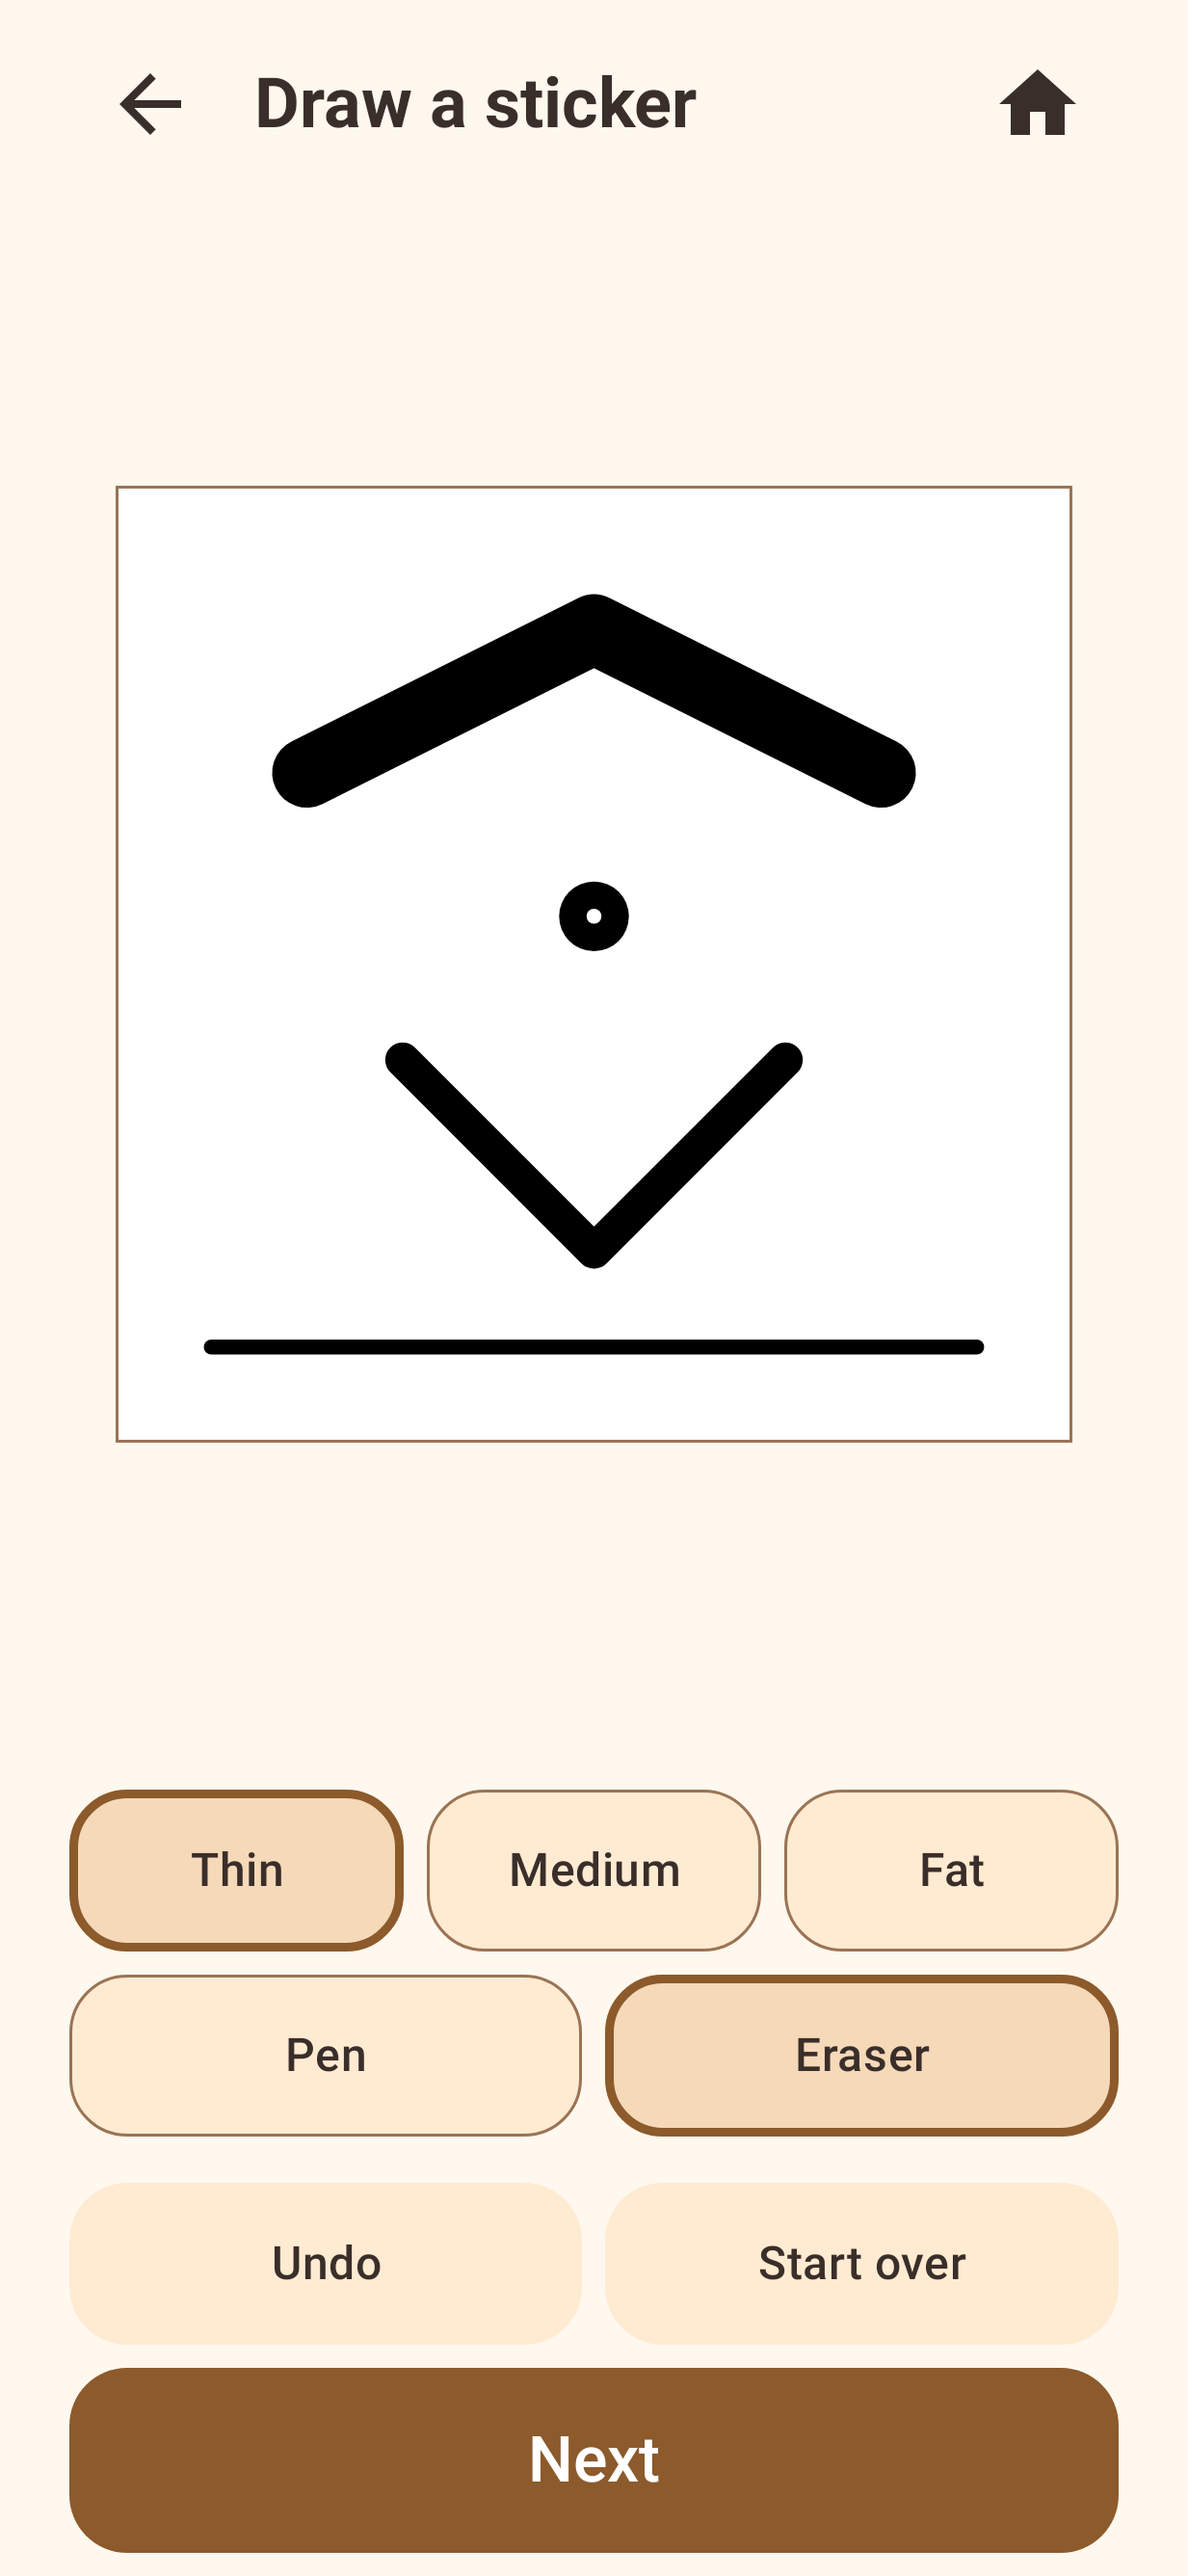
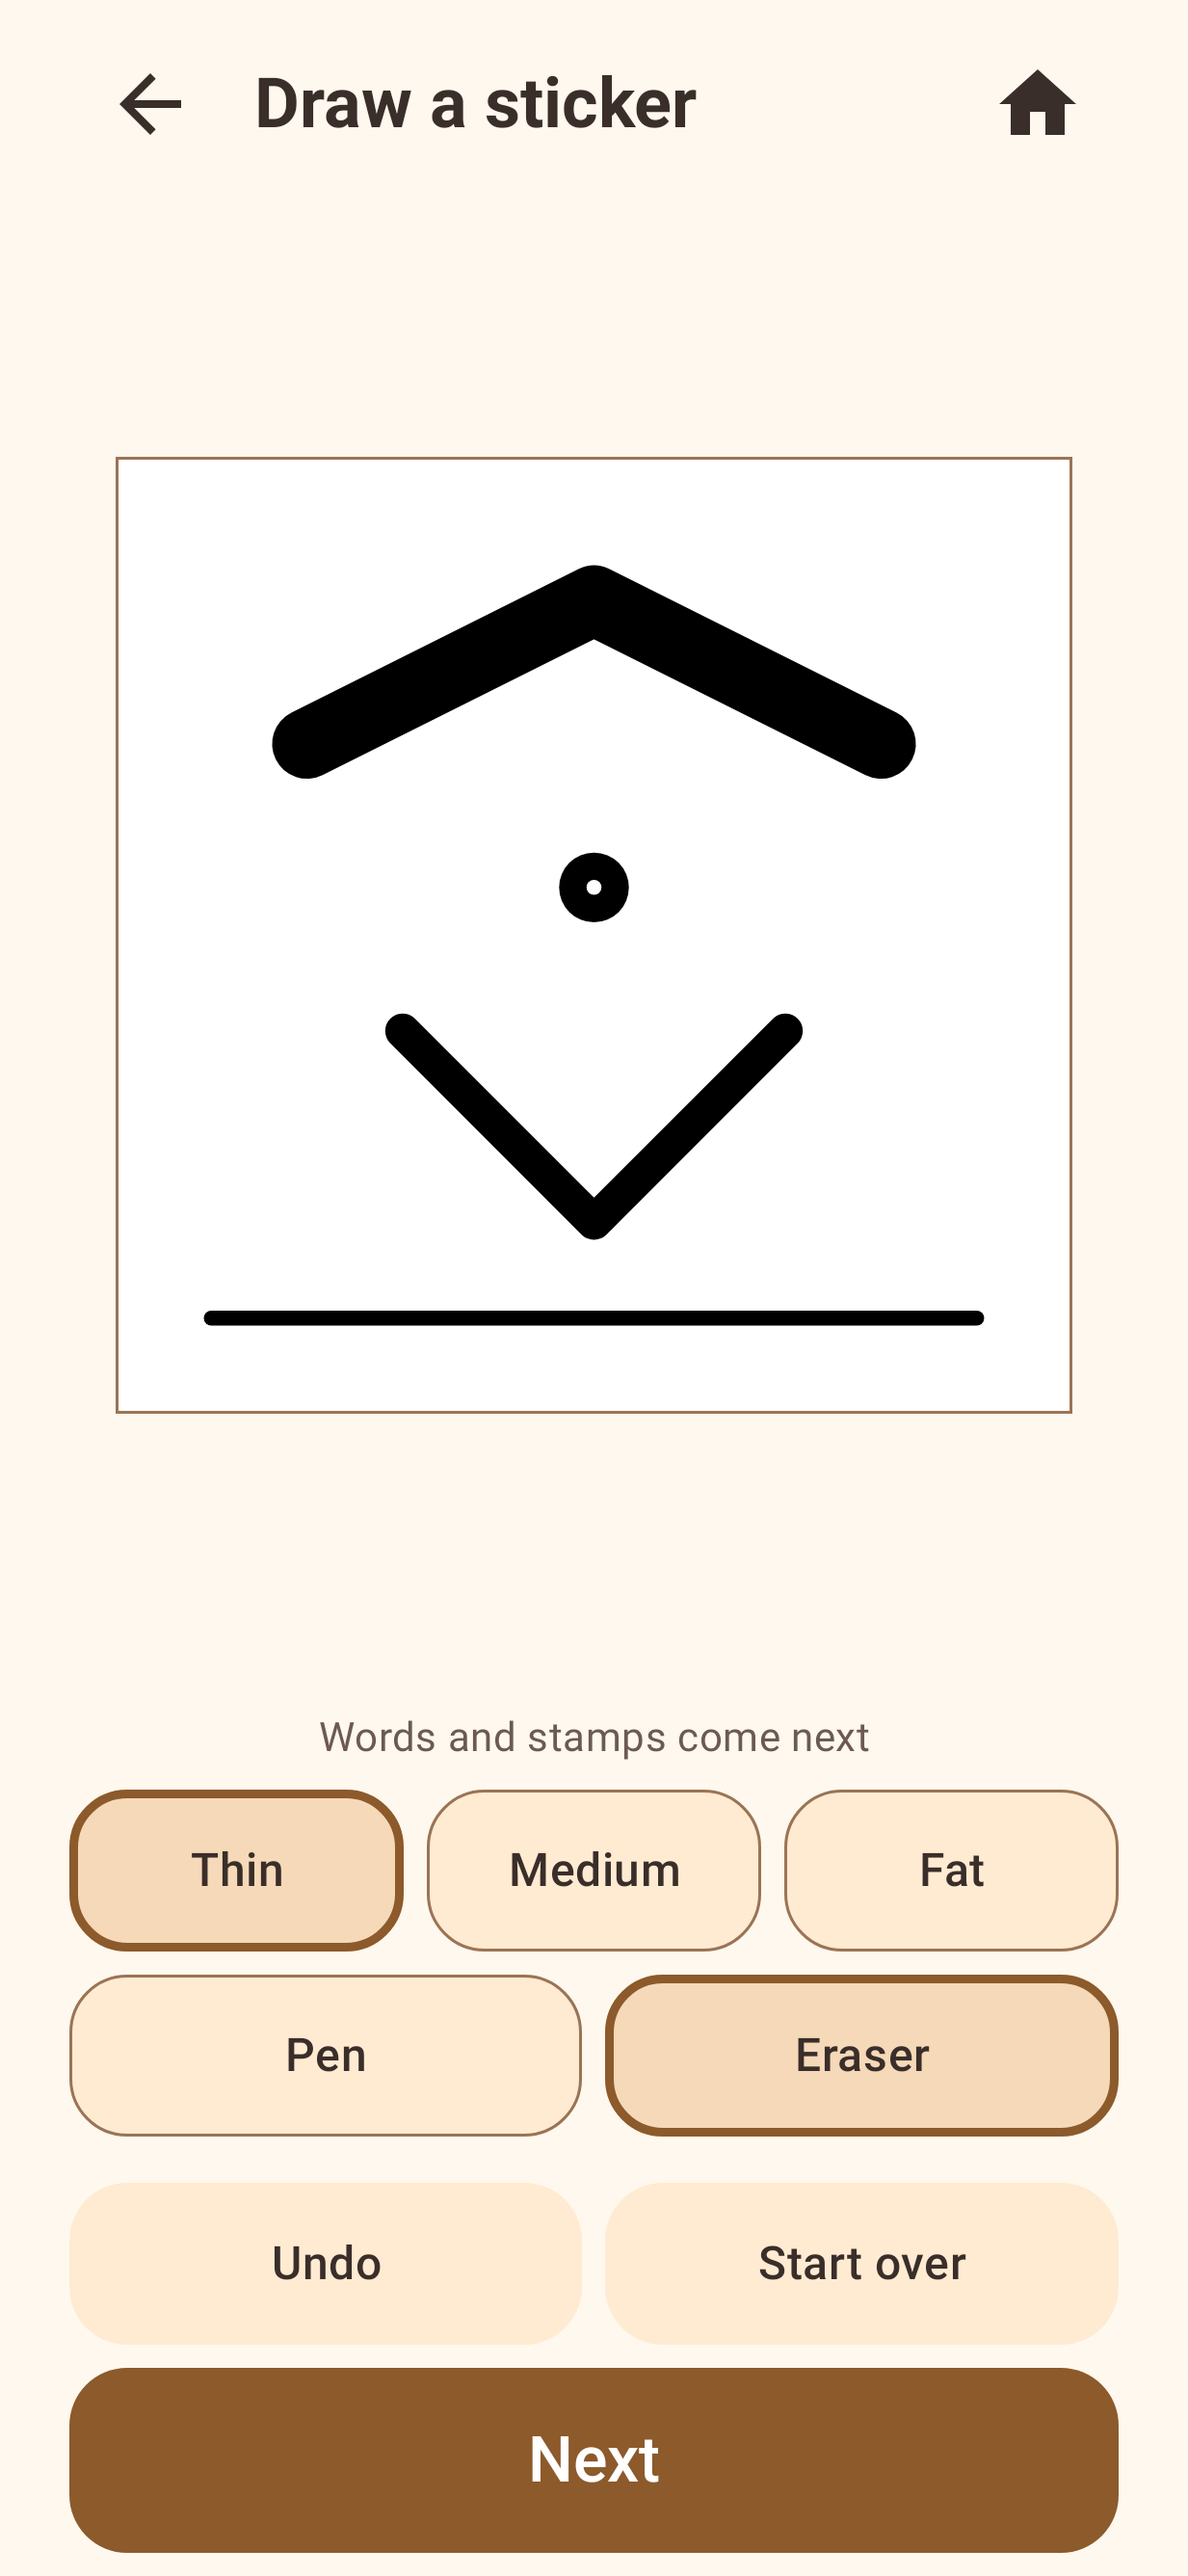
feat(draw): blank sheets go to the editor; drawings skip the crop step
Hardware-run feedback 2026-09-22: a kid may want only words and stamps. Next is now always
enabled on the draw sheet (hint: "Draw something — or tap Next to use just words and stamps"),
and the editor opens a drawing straight on "Ready to print?" in Drawing style, since it is
already one sticker; Back from there closes instead of going to a crop step that never showed.
Tests for both; draw goldens re-recorded.

diff --git a/app/src/main/kotlin/com/example/pugprint/ui/editor/EditorViewModel.kt b/app/src/main/kotlin/com/example/pugprint/ui/editor/EditorViewModel.kt
@@ -7,6 +7,7 @@ import com.example.pugprint.imaging.CaptionPlacement
 import com.example.pugprint.imaging.CropShape
 import com.example.pugprint.imaging.CropWindow
 import com.example.pugprint.imaging.DitherMode
+import com.example.pugprint.imaging.DrawingHandoff
 import com.example.pugprint.imaging.GrayImage
 import com.example.pugprint.imaging.ImagingDispatcher
 import com.example.pugprint.imaging.MonoBitmap
@@ -140,22 +141,29 @@ class EditorViewModel
                 )
             }.stateIn(viewModelScope, SharingStarted.Eagerly, EditorUiState())
 
-        /** Loads the picture at [uri]; a repeat call for the same picture is a no-op (configuration change). */
+        /**
+         * Loads the picture at [uri]; a repeat call for the same picture is a no-op (configuration
+         * change). A drawing ([DrawingHandoff.URI]) is already one sticker, so it skips "Make it fit"
+         * and opens on the preview in Drawing style.
+         */
         fun open(uri: String) {
             if (openedUri == uri) return
             openedUri = uri
             renderJob?.cancel()
             edit.value = EditState()
+            val isDrawing = uri == DrawingHandoff.URI
             viewModelScope.launch {
                 try {
                     val image = withContext(dispatcher) { photos.load(uri) }
                     edit.update {
                         it.copy(
-                            step = EditorStep.Crop,
+                            step = if (isDrawing) EditorStep.Preview else EditorStep.Crop,
                             image = image,
                             window = CropWindow(image.width, image.height),
+                            mode = if (isDrawing) DitherMode.DRAWING else it.mode,
                         )
                     }
+                    if (isDrawing) render()
                 } catch (_: PhotoLoadException) {
                     edit.update { it.copy(step = EditorStep.Failed) }
                 }

diff --git a/app/src/main/kotlin/com/example/pugprint/ui/draw/DrawScreen.kt b/app/src/main/kotlin/com/example/pugprint/ui/draw/DrawScreen.kt
@@ -15,6 +15,7 @@ import androidx.compose.foundation.layout.fillMaxWidth
 import androidx.compose.foundation.layout.height
 import androidx.compose.foundation.layout.padding
 import androidx.compose.material3.MaterialTheme
+import androidx.compose.material3.Text
 import androidx.compose.runtime.Composable
 import androidx.compose.ui.Alignment
 import androidx.compose.ui.Modifier
@@ -28,6 +29,7 @@ import androidx.compose.ui.input.pointer.pointerInput
 import androidx.compose.ui.res.stringResource
 import androidx.compose.ui.semantics.contentDescription
 import androidx.compose.ui.semantics.semantics
+import androidx.compose.ui.text.style.TextAlign
 import androidx.compose.ui.unit.dp
 import com.example.pugprint.R
 import com.example.pugprint.design.components.BigButton
@@ -54,7 +56,14 @@ fun DrawScreen(
         onHome = actions.onHome,
     ) {
         DrawingCanvas(state, actions)
-        Spacer(Modifier.height(PugSpacing.medium))
+        Spacer(Modifier.height(PugSpacing.small))
+        Text(
+            text = stringResource(if (state.drawing.isEmpty) R.string.draw_hint_empty else R.string.draw_hint),
+            style = MaterialTheme.typography.bodyMedium,
+            color = MaterialTheme.colorScheme.onSurfaceVariant,
+            textAlign = TextAlign.Center,
+        )
+        Spacer(Modifier.height(PugSpacing.small))
         ChoiceRow(
             options = BrushSize.entries,
             selected = state.brush,

diff --git a/app/src/test/kotlin/com/example/pugprint/ui/editor/EditorViewModelTest.kt b/app/src/test/kotlin/com/example/pugprint/ui/editor/EditorViewModelTest.kt
@@ -5,6 +5,7 @@ import com.example.pugprint.imaging.CaptionPlacement
 import com.example.pugprint.imaging.CropRect
 import com.example.pugprint.imaging.CropShape
 import com.example.pugprint.imaging.DitherMode
+import com.example.pugprint.imaging.DrawingHandoff
 import com.example.pugprint.imaging.GrayImage
 import com.example.pugprint.imaging.MonoBitmap
 import com.example.pugprint.imaging.PhotoLoadException
@@ -321,5 +322,24 @@ class EditorViewModelTest {
 
             viewModel.onStampsDoneClicked()
             assertEquals(EditorStep.Preview, viewModel.uiState.value.step)
+        }
+
+    @Test
+    fun `a drawing skips the crop step and opens on the preview in drawing style`() =
+        runTest {
+            val sheet = GrayImage.generate(384, 384) { x, y -> if (x in 100..200 && y in 100..200) 0 else 255 }
+            photos[DrawingHandoff.URI] = sheet
+            val viewModel = viewModel()
+            viewModel.open(DrawingHandoff.URI)
+            runCurrent()
+
+            val state = viewModel.uiState.value
+            assertEquals(EditorStep.Preview, state.step)
+            assertEquals(DitherMode.DRAWING, state.mode)
+            val preview = state.preview!!
+            assertEquals(384, preview.width)
+            assertEquals(384, preview.height)
+            assertTrue(preview.isBlack(150, 150))
+            assertFalse(preview.isBlack(10, 10))
         }
 }

diff --git a/app/src/test/kotlin/com/example/pugprint/ui/draw/DrawViewModelTest.kt b/app/src/test/kotlin/com/example/pugprint/ui/draw/DrawViewModelTest.kt
@@ -45,7 +45,6 @@ class DrawViewModelTest {
                 Stroke(listOf(DrawPoint(0.1f, 0.1f), DrawPoint(0.2f, 0.2f)), BrushSize.FAT),
                 viewModel.uiState.value.current,
             )
-            assertFalse(viewModel.uiState.value.canFinish)
 
             viewModel.onStrokeEnded()
             viewModel.onToolSelected(DrawTool.ERASER)
@@ -76,10 +75,22 @@ class DrawViewModelTest {
         }
 
     @Test
+    fun `a blank sheet can go to the editor too, for words and stamps only`() =
+        runTest {
+            val viewModel = viewModel()
+            assertTrue(viewModel.uiState.value.canFinish)
+            viewModel.onNextClicked()
+            runCurrent()
+
+            val image = handoff.image!!
+            assertTrue(image.luma.all { (it.toInt() and 0xFF) == 255 }, "blank sheet should be all white")
+            assertTrue(viewModel.finished.value)
+        }
+
+    @Test
     fun `next renders the drawing into the hand-off and flags finished once`() =
         runTest {
             val viewModel = viewModel()
-            viewModel.onNextClicked() // nothing drawn: ignored
             assertNull(handoff.image)
             assertFalse(viewModel.finished.value)
 

diff --git a/app/src/main/kotlin/com/example/pugprint/ui/editor/EditorRoute.kt b/app/src/main/kotlin/com/example/pugprint/ui/editor/EditorRoute.kt
@@ -6,6 +6,7 @@ import androidx.compose.runtime.LaunchedEffect
 import androidx.compose.runtime.getValue
 import androidx.hilt.lifecycle.viewmodel.compose.hiltViewModel
 import androidx.lifecycle.compose.collectAsStateWithLifecycle
+import com.example.pugprint.imaging.DrawingHandoff
 
 /**
  * Wires [EditorViewModel] to the screen. Back ([onClose]) returns to wherever the picture came
@@ -28,7 +29,8 @@ fun EditorRoute(
             onHome()
         }
     }
-    val inPreview = state.step == EditorStep.Preview
+    val isDrawing = photoUri == DrawingHandoff.URI
+    val inPreview = state.step == EditorStep.Preview && !isDrawing // a drawing has no crop step to go back to
     val inWords = state.step == EditorStep.Words
     val inStamps = state.step == EditorStep.Stamps
     BackHandler(enabled = inPreview) { viewModel.onBackToCropClicked() }

diff --git a/app/src/main/kotlin/com/example/pugprint/ui/draw/DrawViewModel.kt b/app/src/main/kotlin/com/example/pugprint/ui/draw/DrawViewModel.kt
@@ -31,7 +31,9 @@ data class DrawUiState(
     val rendering: Boolean = false,
 ) {
     val canUndo: Boolean get() = !drawing.isEmpty
-    val canFinish: Boolean get() = !drawing.isEmpty && !rendering
+
+    /** A blank sheet is fine too: words and stamps go on it in the editor. */
+    val canFinish: Boolean get() = !rendering
 }
 
 @HiltViewModel

diff --git a/CHANGELOG.md b/CHANGELOG.md
@@ -13,7 +13,8 @@ All notable changes to PugPrint are documented here. The format follows
   the editor through `DrawingHandoff` + `HandoffPhotoSource`, so crop, words, stamps, darkness
   and printing all apply to drawings. Printing now always lands on the home screen (it used to
   pop back to the draw sheet), and the draw and editor screens have a Home button in the header
-  (`KidScreen.onHome`).
+  (`KidScreen.onHome`). A blank sheet can go to the editor too (words and stamps only), and a
+  drawing skips "Make it fit": it opens straight on "Ready to print?" in Drawing style.
 - Phase 5 stamps. `StampCatalog` (heart, star, paw, smiley, sun, zap — 16 × 16 art drawn as
   `#`/`.`, add a stamp by adding an entry), `StampPlacement` on the `Sticker` (centre as
   fractions of the sticker, Small / Medium / Big) and `StampRasterizer` (one-dot white halo so

diff --git a/docs/ROADMAP.md b/docs/ROADMAP.md
@@ -70,7 +70,8 @@
   6. ✅ **Drawing canvas** — `Drawing` / `Stroke` / `BrushSize` and a pure `StrokeRasterizer`
      (round-capped strokes as discs, eraser paints white; golden `drawing_face.pbm`); "Draw a
      sticker" on the home screen → a square sheet with Thin / Medium / Fat, Pen / Eraser, Undo,
-     Start over; Next hands the 384 × 384 picture to the editor through `DrawingHandoff`, so
+     Start over; Next (also on a blank sheet, for words-and-stamps-only stickers) hands the
+     384 × 384 picture to the editor through `DrawingHandoff`, which skips the crop step for it;
      words, stamps, darkness and printing all work on drawings unchanged.
   7. **Accessibility pass** — content descriptions, TalkBack order, 1.5× font-scale goldens,
      lint accessibility checks on.
